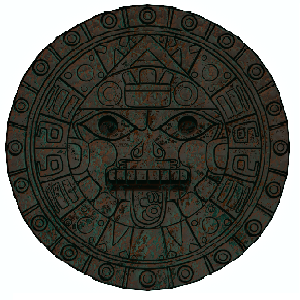
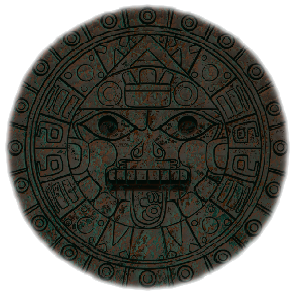
artist page WIP

Changed region(s): [[0.0, 0.0, 0.99, 0.99]]

diff --git a/pages/artists/stygian.tsx b/pages/artists/stygian.tsx
@@ -1,62 +1,55 @@
+import Image from 'next/image'
+import stygian from '../../public/stygian.png'
+import PageLayout from '../../components/Layouts/PageLayout';
 import Heading from '../../components/Typography/Heading';
 
-/*
 
-export const getStaticProps: GetStaticProps = async (context) => {
-      let URIs: string[] = []
-      //initial number for forloop. typescript will be happy with this for sure . 
-      let i: number = 0
-      //instantiate a new web3 http provider - passing in my matic/mumbai network node rpc-url.
-      const provider = new Web3.providers.HttpProvider(
-            '  https://rpc-mumbai.maticvigil.com/v1/f7178baf2319f5704d765be9c095e1b9c94ceb1f'
-      );
-      //new Web3 instance - passing in the http provider
-      const web3 = new Web3(provider)
-      //instantiate contract from web3 for reference in this js module. 
-      const nftContract = new web3.eth.Contract(
-            //@ts-ignore
-            abi,
-            "0xf79349d03E0A2BfFD5Ea27B512D51Bd84289E72A",
-      );
-
-      async function pushURIs(total: number) {
-            for (i = 1; i <= total; i++) {
-                  URIs.push(`https://contract-abis.herokuapp.com/mp4s/${i}.mp4`)
-            }
-      }
-
-      //
-      await nftContract.methods
-            .totalSupply()
-            .call().then(res => pushURIs(res))
-            .catch(error => console.log(error));
-
-
-      return {
-            props: {
-                  URIs
-            }
-      }
-}
-
-
-      {URIs.map((uri: string) => 
-                              <ImageCard 
-                              img={uri}
-                              title="an Item of Stygian's"
-                              />
-                        )}
-*/
 export default function Stygian() {
-
-
       return (
-            <>
-                  <div className="flex flex-col items-center justify-center space-y-20 ">
-                        <Heading title="Stygian"  hScreen={false}/>
-                  
+            <PageLayout styles=" 
+            flex flex-col space-y-20
+            justify-center items-center rounded-md
+            p-2 md:p-4 lg:p-8 m-2
+            bg-th-foreground shadow-lg
+            ">
+
+                  <div className="grid   grid-cols-5 justify-center items-center ">
+
+
+                        <div className=" rounded-full col-span-5 md:col-span-2 lg:col-span-2">
+                              <Image
+                                    src={stygian}
+                                    className=""
+                                    width={500}
+                                    height={500}
+                              />
+                        </div>
+
+                        <div className='  md:col-span-3 lg:col-span-3'>
+                              <Heading title="Stygian" hScreen={false} >
+
+                                    <p className="text-center text-base sm:text-lg lg:text-2xl 
+                                          text-th-primary-light text-shadow-sm subpixel-antialiased                 
+                                          max-w-xs md:max-w-xl lg:max-w-2xl break-words
+                                    ">
+                                          The bridge between talented artists, and the secret of digital asset demand.
+                                          The bridge between talented artists, and the secret of digital asset demand.
+                                          The bridge between talented artists, and the secret of digital asset demand.
+                                          The bridge between talented artists, and the secret of digital asset demand.
+
+                                    </p>
+                              </Heading>
+
+
+                        </div>
+
+
                   </div>
-            </>
+
+
+            </PageLayout >
+
+
       );
 }
 

diff --git a/tailwind.config.js b/tailwind.config.js
@@ -23,7 +23,6 @@ module.exports = {
         lg: '0 10px 15px -3px rgba(0, 0, 0, 0.1), 0 4px 6px -2px rgba(0, 0, 0, 0.05)',
         xl: '0 20px 25px -5px rgba(0, 0, 0, 0.1), 0 10px 10px -5px rgba(0, 0, 0, 0.04)',
         '2xl': '0 25px 50px -12px rgba(0, 0, 0, 0.25)',
-  
         '3xl': '0 35px 60px -15px rgba(0, 0, 0, 0.3)',
         inner: 'inset 0 2px 4px 0 rgba(0, 0, 0, 0.06)',
         none: 'none',
@@ -54,12 +53,10 @@ module.exports = {
         '6': '6px',
         '10': '10px',
       },
-
-    
       backgroundImage: {
         'the-willy': "url('/head.png')",
         'bill': " url('https://pbs.twimg.com/profile_images/988775660163252226/XpgonN0X_400x400.jpg')",
-        'stygian' : "url('https://gateway.pinata.cloud/ipfs/QmTDuHtcVfT6HKjDuwJT89VbWizGTPPZnhA8pnuedPapGe/1.png')",
+        'stygian' : "url('/stygian.png')",
         'enso': "url('https://static.dezeen.com/uploads/2021/06/elon-musk-architect_dezeen_1704_col_0.jpg')",
         'emerald-citizen' : "url('https://ipfs.io/ipfs/QmdpLLWDfgXJWvJyqydRwP6Dw8pFwrgn2ziZPAHosjWfCR')"
       } ,
@@ -70,7 +67,7 @@ module.exports = {
         red: colors.rose,
         pink: colors.pink,
         green: colors.lime,
-        purple: colors.purple,
+        purple: colors.violet,
         darkblue: colors.indigo,
         amber: colors.amber,
         fuchsia: colors.fuchsia,

diff --git a/styles/globals.css b/styles/globals.css
@@ -5,7 +5,8 @@
 :root {
       --background: theme('colors.blue.50');
       --background-secondary: theme('colors.lightblue.900');
-    
+      --foreground: theme('colors.lightblue.100');
+
       --accent-dark: theme('colors.pink.700');
       --accent-medium: theme('colors.pink.500');
       --accent-light: theme('colors.pink.300');
@@ -44,7 +45,8 @@
     [data-theme='dark'] {
       --background: theme('colors.lightblue.900');
       --background-secondary: theme('colors.blue.50');
-    
+      --foreground: theme('colors.gray.700');
+
       --accent-dark: theme('colors.pink.700');
       --accent-medium: theme('colors.pink.500');
       --accent-light: theme('colors.pink.300');

diff --git a/pages/artists/index.tsx b/pages/artists/index.tsx
@@ -7,7 +7,7 @@ export default function Artists() {
       return (
             <PageLayout>
                   <div className=" 
-            grid grid-cols-3
+            grid grid-cols-2 lg:grid-cols-3
             gap-4 md:gap-8 lg:gap-12
             pb-36 items-center justify-center
             ">
